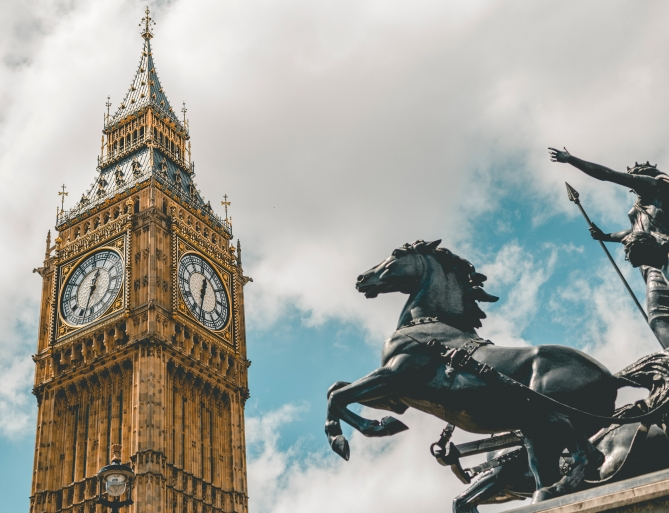
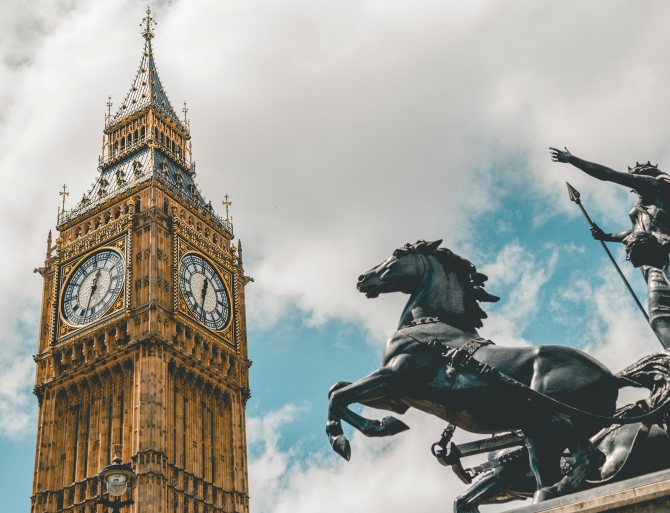
Fix opengraph images for portfolio pages

diff --git a/src/pages/portfolio/kamet/index.html b/src/pages/portfolio/kamet/index.html
@@ -5,10 +5,10 @@
     "keywords": "kamet ventures,lean startup,aws,spring framework,node.js,react,gocd,infrastructure,chatops,continuous delivery,vincent spiewak",
     "opengraph" : {
         "image": {
-            "url": "/img/portfolio/kamet/canvas.jpg",
+            "url": "/img/portfolio/covers/kamet.jpg",
             "type": "image/jpeg",
-            "width": 1920,
-            "height": 1080
+            "width": 670,
+            "height": 513
         }
     }
 })

diff --git a/src/pages/portfolio/sacem/index.html b/src/pages/portfolio/sacem/index.html
@@ -5,10 +5,10 @@
     "keywords": "sacem,big data,spring framework,kafka,spark,elastic,react,openstack,infrastructure,gocd,vincent spiewak",
     "opengraph" : {
         "image": {
-            "url": "/img/portfolio/sacem/search.jpg",
+            "url": "/img/portfolio/covers/sacem.jpg",
             "type": "image/jpeg",
-            "width": 1920,
-            "height": 1080
+            "width": 670,
+            "height": 513
         }
     }
 })
